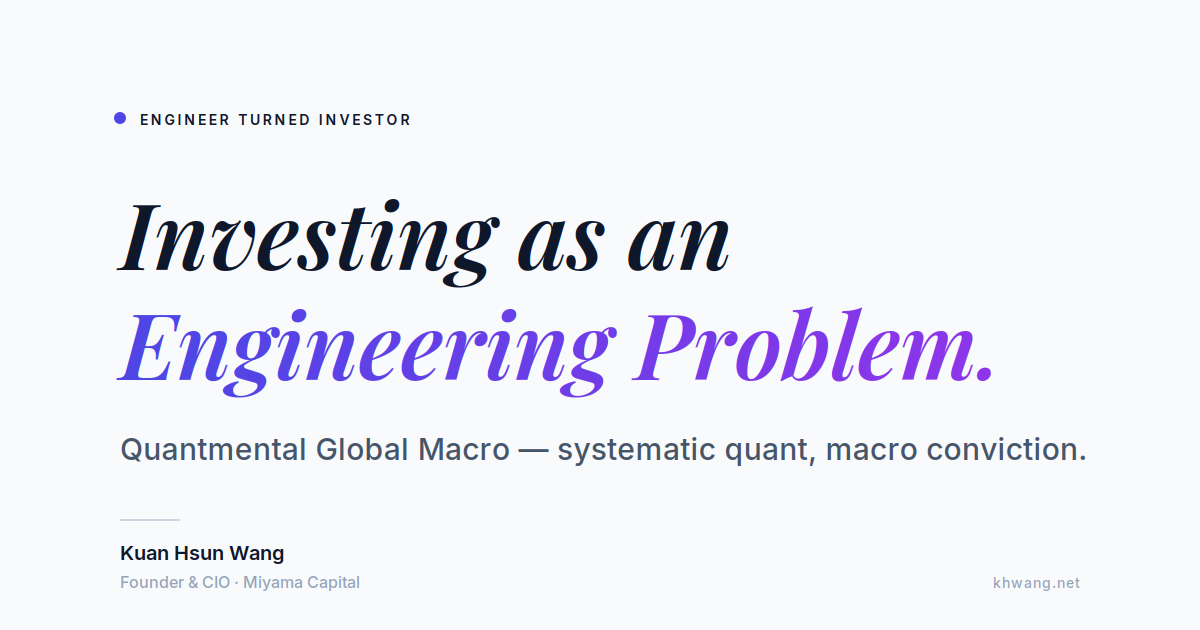
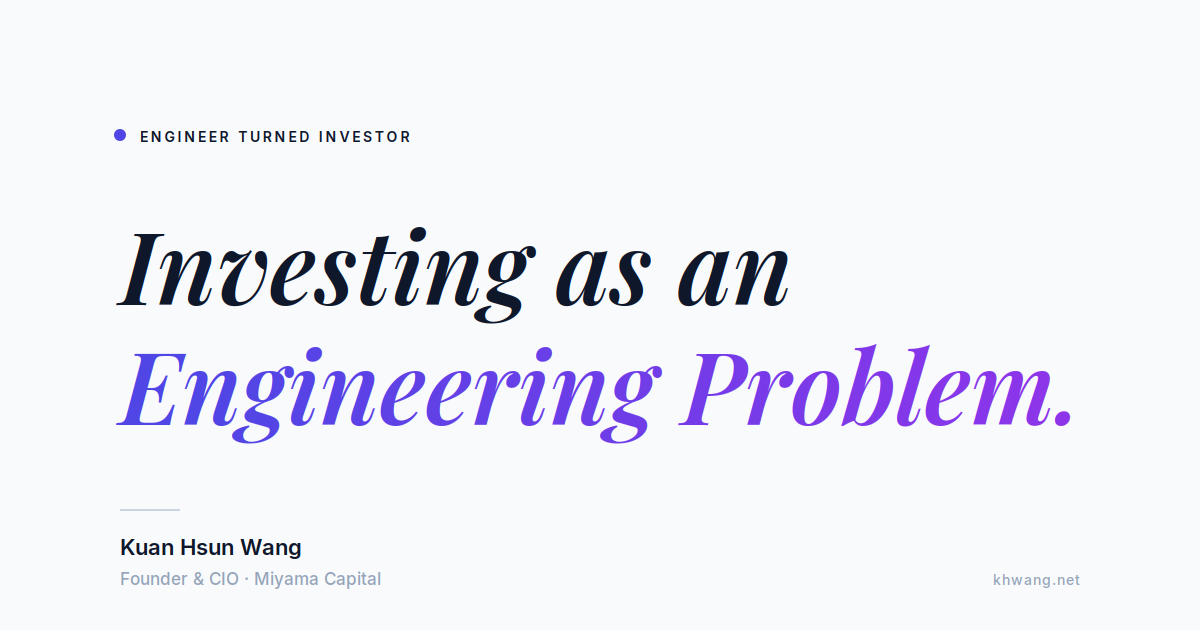
update index.html

diff --git a/index.html b/index.html
@@ -13,10 +13,6 @@
   <meta property="og:description" content="Founder & CIO of Miyama Capital. Investing as an engineering problem." />
   <meta property="og:url" content="https://khwang.net/" />
   <meta property="og:image" content="https://khwang.net/og-image.png" />
-  <meta property="og:image:width" content="1200" />
-  <meta property="og:image:height" content="630" />
-  <meta property="og:image:type" content="image/png" />
-  <meta property="og:image:alt" content="Kuan Hsun Wang — Investing as an Engineering Problem. Quantmental Global Macro: systematic quant, macro conviction." />
 
   <meta name="twitter:card" content="summary_large_image" />
   <meta name="twitter:title" content="Kuan Hsun Wang | Engineer & Investor" />
@@ -74,17 +70,11 @@
         ENGINEER TURNED INVESTOR
       </div>
 
-      <h1 class="text-5xl md:text-7xl font-bold text-tech-dark tracking-tight mb-6">
+      <h1 class="text-5xl md:text-7xl font-bold text-tech-dark tracking-tight mb-8">
         Investing as an <br class="hidden md:block" />
         <span class="text-transparent bg-clip-text bg-gradient-to-r from-tech-accent to-purple-600">Engineering Problem.</span>
       </h1>
 
-      <!-- L1 Tagline (D10 lock-in line) -->
-      <p class="text-base md:text-lg font-medium text-slate-500 tracking-wide mb-10">
-        Quantmental Global Macro &mdash; systematic quant, macro conviction.
-      </p>
-
-      <!-- L2 Hero Quote -->
       <p class="mx-auto max-w-2xl text-lg md:text-xl leading-relaxed text-slate-500 font-light">
         &ldquo;Markets move through regimes. I read the transmission across currencies, rates, equities, and real assets &mdash; then size positions with the discipline of a distributed system: fault-tolerant by design, decisive in execution.&rdquo;
       </p>
@@ -111,12 +101,12 @@
 
       <div class="border-l-4 border-slate-200 pl-8 md:pl-12 space-y-8 text-lg text-slate-600 leading-relaxed">
 
-        <!-- Para 1: Parallel Discipline (A4 — REWRITTEN) -->
+        <!-- Philosophy paragraph 1 -->
         <p>
           Two parallel disciplines have run alongside each other: a decade of building fault-tolerant verification infrastructure as an engineer, and managing my own capital across US, Japan, and Taiwan markets since 2010. Both train the same instinct &mdash; design the system to survive being wrong, then optimize for the cases where you are right. The investing track has converged into my main focus.
         </p>
 
-        <!-- Para 2 + 3: Fault Tolerance core (RETAINED v1) -->
+        <!-- Fault Tolerance core -->
         <div class="rounded-lg bg-slate-50 p-6 -ml-4 border border-slate-100">
           <p>
             My philosophy is simple: <span class="text-tech-accent font-bold">Fault Tolerance.</span>
@@ -126,13 +116,13 @@
           </p>
         </div>
 
-        <!-- Para 4: Cross-border setup (RETAINED v1, trimmed per Final Copy) -->
+        <!-- Cross-border setup -->
         <p>
           I am currently building a cross-border investment setup connecting the US, Taiwan, and Japan.
         </p>
       </div>
 
-      <!-- Core Focus Areas (A3 — 3 tags) -->
+      <!-- Core Focus Areas -->
       <div class="mt-20 pt-10 border-t border-slate-200">
         <h3 class="text-sm font-bold uppercase tracking-wider text-slate-400 mb-6">Core Focus Areas</h3>
         <div class="flex flex-wrap gap-3">
@@ -151,7 +141,7 @@
 
       <div class="relative space-y-12 border-l-2 border-slate-100 pl-8 ml-3">
 
-        <!-- Entry 1: Founder & CIO (A2 — REWRITTEN bullets) -->
+        <!-- Founder & CIO -->
         <div class="relative">
           <span class="absolute -left-[41px] top-1.5 h-6 w-6 rounded-full border-4 border-white bg-tech-accent shadow-sm"></span>
           <div class="flex flex-col sm:flex-row sm:items-center sm:justify-between mb-2">
@@ -167,7 +157,7 @@
           </ul>
         </div>
 
-        <!-- Entry 2: Synopsys Sr. Staff (RETAINED v1) -->
+        <!-- Synopsys Senior Staff -->
         <div class="relative">
           <span class="absolute -left-[41px] top-1.5 h-6 w-6 rounded-full border-4 border-white bg-slate-300"></span>
           <div class="flex flex-col sm:flex-row sm:items-center sm:justify-between mb-2">
@@ -180,7 +170,7 @@
           </p>
         </div>
 
-        <!-- Entry 3: Synopsys Sr. (RETAINED v1) -->
+        <!-- Synopsys Senior -->
         <div class="relative">
           <span class="absolute -left-[41px] top-1.5 h-6 w-6 rounded-full border-4 border-white bg-slate-300"></span>
           <div class="flex flex-col sm:flex-row sm:items-center sm:justify-between mb-2">
@@ -193,7 +183,7 @@
           </p>
         </div>
 
-        <!-- Entry 4: Pixart (RETAINED v1) -->
+        <!-- Pixart -->
         <div class="relative">
           <span class="absolute -left-[41px] top-1.5 h-6 w-6 rounded-full border-4 border-white bg-slate-300"></span>
           <div class="flex flex-col sm:flex-row sm:items-center sm:justify-between mb-2">
@@ -237,7 +227,7 @@
     </div>
   </section>
 
-  <!-- ============ WRITING & RESEARCH (A6 — NEW) ============ -->
+  <!-- ============ WRITING & RESEARCH ============ -->
   <section id="writing" class="py-24 bg-white border-t border-slate-100">
     <div class="mx-auto max-w-4xl px-6">
       <h2 class="text-3xl font-bold text-tech-dark mb-12">Writing & Research</h2>
@@ -272,11 +262,11 @@
     </div>
   </section>
 
-  <!-- ============ VELVET ROPE + CONTACT (A5 — NEW) ============ -->
+  <!-- ============ CONTACT ============ -->
   <section id="contact" class="py-24 bg-slate-50 border-t border-slate-200">
     <div class="mx-auto max-w-3xl px-6 text-center">
 
-      <!-- Velvet Rope (filtering layer above contact) -->
+      <!-- Audience filter -->
       <p class="text-base md:text-lg leading-relaxed text-slate-600 mb-10">
         Open to dialogue with Family Office CIOs, portfolio managers, analysts, and engineers or researchers working on adjacent problems in cross-asset macro and systematic frameworks. Not the right fit for recruiters, service vendors, or retail trading inquiries.
       </p>
